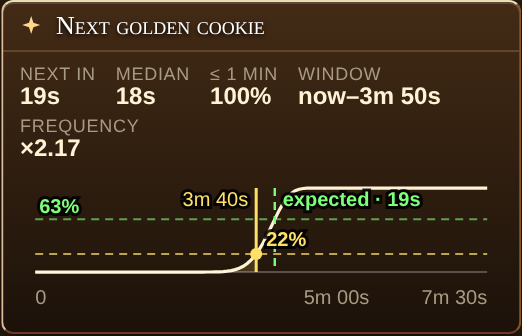
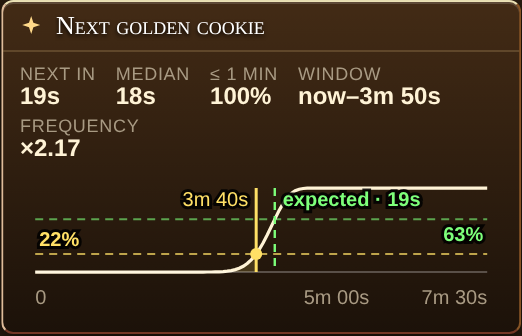
Golden cookie chart: the expected height's % at the right edge under its line, now's at the left over it
Claude-Session: https://claude.ai/code/session_01ALSqfqti9AWcGeUb6sLZcW

diff --git a/dist/CookieMgr.js b/dist/CookieMgr.js
@@ -20488,13 +20488,13 @@ CA.UI.SpawnView = (() => {
     // the part swept so far, shaded under the curve
     const swept = pts.filter(([x]) => x <= nx);
     const area = `M${x0},${y0}` + swept.map(([x, y]) => `L${x.toFixed(2)},${y.toFixed(2)}`).join('') + `L${nx.toFixed(2)},${ny.toFixed(2)}L${nx.toFixed(2)},${y0}Z`;
-    const right = nx > x0 + (x1 - x0) * 0.75; // the label left of the line near the end
     const expAt = d.wait && Number.isFinite(d.wait.mean) ? c.elapsed + d.wait.mean : null; // the expected moment
     const hp = expAt !== null ? c.cdf(expAt) : 0.5;
     // the lines and shapes first, every label after them all (drawn on top: SVG paints in order)
     let labels =
-      `<text class="ca-sp-ylab ca-sp-hp" x="${x0 + 2}" y="${(Y(hp) - 3).toFixed(2)}">${pc(hp)}</text>` +
-      (y0 - y1 >= 60 && Y(hp) - y1 > 20 ? `<text class="ca-sp-ylab" x="${x0 + 2}" y="${(y1 + 8).toFixed(2)}">100%</text>` : ''); // a short chart (a widget): the dashed line's alone
+      // the expected moment's height: far right, under its line
+      `<text class="ca-sp-ylab ca-sp-hp" x="${x1 - 2}" y="${(Y(hp) + 11).toFixed(2)}" text-anchor="end">${pc(hp)}</text>` +
+      (y0 - y1 >= 60 && Y(c.by) - y1 > 24 ? `<text class="ca-sp-ylab" x="${x0 + 2}" y="${(y1 + 8).toFixed(2)}">100%</text>` : ''); // a short chart (a widget): the dashed line's alone
     let plotSvg =
       `<path class="ca-sp-swept" d="${area}"/>` +
       // dashed, across: the curve's height at the expected moment (where the expected line meets it)
@@ -20506,8 +20506,8 @@ CA.UI.SpawnView = (() => {
       `<line class="ca-sp-nowh" x1="${x0}" x2="${x1}" y1="${ny.toFixed(2)}" y2="${ny.toFixed(2)}"/>` +
       `<circle cx="${nx.toFixed(2)}" cy="${ny.toFixed(2)}" r="3"/></g>`;
     labels +=
-      // its height: right of the now line, just under the dashed line across (over it when that's at the bottom)
-      `<g class="ca-sp-now"><text x="${(nx + (right ? -5 : 5)).toFixed(2)}" y="${(ny + 11 > y0 - 2 ? ny - 4 : ny + 11).toFixed(2)}" text-anchor="${right ? 'end' : 'start'}">${pc(c.by)}</text>` +
+      // its height: far left, over its dashed line across
+      `<g class="ca-sp-now"><text x="${x0 + 2}" y="${(ny - 4).toFixed(2)}">${pc(c.by)}</text>` +
       // the time since the last one left, at its top, on the side away from the expected line
       `<text class="ca-sp-since" x="${(nx + (nx < x0 + 50 ? 4 : -4)).toFixed(2)}" y="${(y1 + 9).toFixed(2)}" text-anchor="${nx < x0 + 50 ? 'start' : 'end'}">${c.elapsed < 1 ? '0s' : F().span(c.elapsed)}</text></g>`;
     // the expected moment (now + the mean wait from now), dashed, with how long until it

diff --git a/src/ui/spawnView.js b/src/ui/spawnView.js
@@ -171,13 +171,13 @@ CA.UI.SpawnView = (() => {
     // the part swept so far, shaded under the curve
     const swept = pts.filter(([x]) => x <= nx);
     const area = `M${x0},${y0}` + swept.map(([x, y]) => `L${x.toFixed(2)},${y.toFixed(2)}`).join('') + `L${nx.toFixed(2)},${ny.toFixed(2)}L${nx.toFixed(2)},${y0}Z`;
-    const right = nx > x0 + (x1 - x0) * 0.75; // the label left of the line near the end
     const expAt = d.wait && Number.isFinite(d.wait.mean) ? c.elapsed + d.wait.mean : null; // the expected moment
     const hp = expAt !== null ? c.cdf(expAt) : 0.5;
     // the lines and shapes first, every label after them all (drawn on top: SVG paints in order)
     let labels =
-      `<text class="ca-sp-ylab ca-sp-hp" x="${x0 + 2}" y="${(Y(hp) - 3).toFixed(2)}">${pc(hp)}</text>` +
-      (y0 - y1 >= 60 && Y(hp) - y1 > 20 ? `<text class="ca-sp-ylab" x="${x0 + 2}" y="${(y1 + 8).toFixed(2)}">100%</text>` : ''); // a short chart (a widget): the dashed line's alone
+      // the expected moment's height: far right, under its line
+      `<text class="ca-sp-ylab ca-sp-hp" x="${x1 - 2}" y="${(Y(hp) + 11).toFixed(2)}" text-anchor="end">${pc(hp)}</text>` +
+      (y0 - y1 >= 60 && Y(c.by) - y1 > 24 ? `<text class="ca-sp-ylab" x="${x0 + 2}" y="${(y1 + 8).toFixed(2)}">100%</text>` : ''); // a short chart (a widget): the dashed line's alone
     let plotSvg =
       `<path class="ca-sp-swept" d="${area}"/>` +
       // dashed, across: the curve's height at the expected moment (where the expected line meets it)
@@ -189,8 +189,8 @@ CA.UI.SpawnView = (() => {
       `<line class="ca-sp-nowh" x1="${x0}" x2="${x1}" y1="${ny.toFixed(2)}" y2="${ny.toFixed(2)}"/>` +
       `<circle cx="${nx.toFixed(2)}" cy="${ny.toFixed(2)}" r="3"/></g>`;
     labels +=
-      // its height: right of the now line, just under the dashed line across (over it when that's at the bottom)
-      `<g class="ca-sp-now"><text x="${(nx + (right ? -5 : 5)).toFixed(2)}" y="${(ny + 11 > y0 - 2 ? ny - 4 : ny + 11).toFixed(2)}" text-anchor="${right ? 'end' : 'start'}">${pc(c.by)}</text>` +
+      // its height: far left, over its dashed line across
+      `<g class="ca-sp-now"><text x="${x0 + 2}" y="${(ny - 4).toFixed(2)}">${pc(c.by)}</text>` +
       // the time since the last one left, at its top, on the side away from the expected line
       `<text class="ca-sp-since" x="${(nx + (nx < x0 + 50 ? 4 : -4)).toFixed(2)}" y="${(y1 + 9).toFixed(2)}" text-anchor="${nx < x0 + 50 ? 'start' : 'end'}">${c.elapsed < 1 ? '0s' : F().span(c.elapsed)}</text></g>`;
     // the expected moment (now + the mean wait from now), dashed, with how long until it

diff --git a/CHANGELOG.md b/CHANGELOG.md
@@ -19,8 +19,8 @@
   word `golden.frequency`. (The game fixes a cycle's timing when the last cookie leaves, so it counts from the next.)
   The frequency effects' chips read the same way now: Lucky day ×2 (twice as often), not ×0.5 (the time between).
 - **Dashed lines across at both moments**: instead of a fixed 50%, a green one where the expected line meets the
-  curve (its percentage on the left, over the line) and a yellow one at the curve's height now (its percentage just
-  right of the now line, under it).
+  curve (its percentage at the right edge, under the line) and a yellow one at the curve's height now (its
+  percentage at the left edge, over the line).
 - **Next golden cookie widget: pick its numbers.** Its settings list each number (next in, median, chance within a
   minute, window, frequency) to switch on or off; all on by default, saved with the widget.
 - The chart's labels (the percentages, the times, “expected”) are drawn over its lines, curve and bars, with a dark
